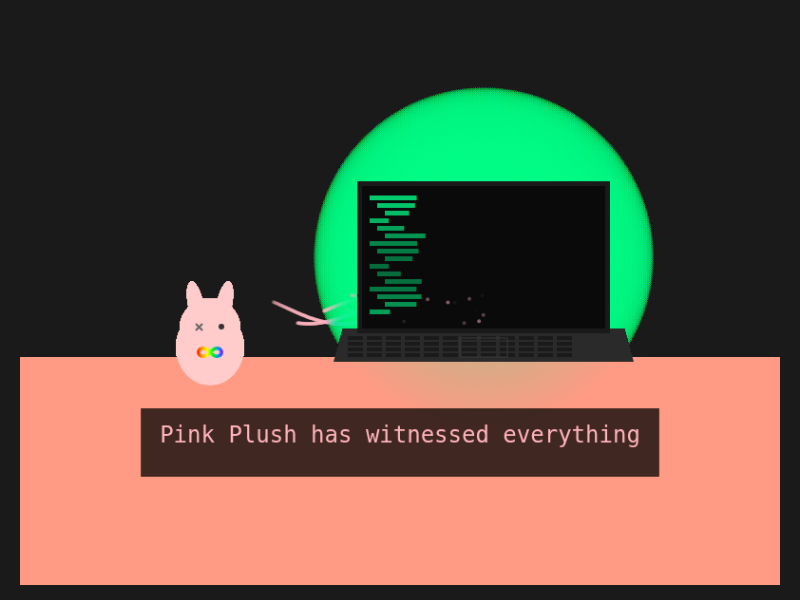
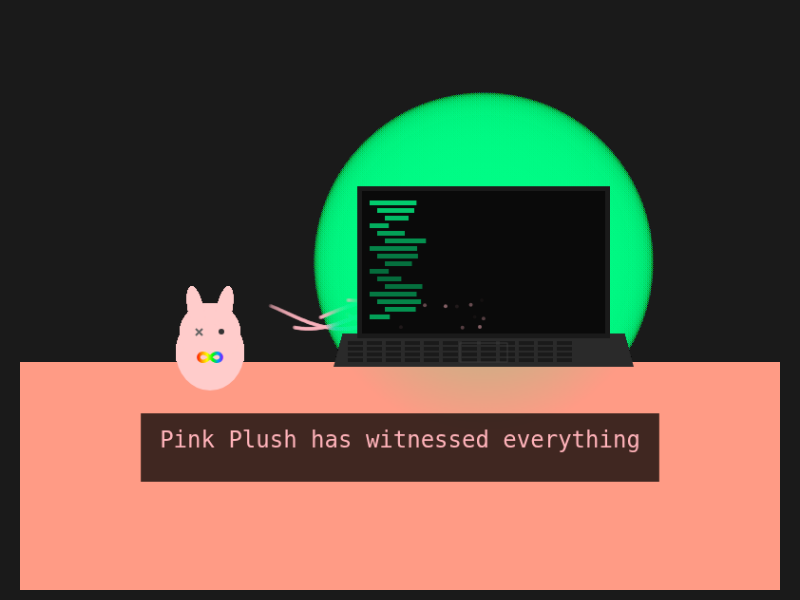
Fix #039 mobile aspect ratio - responsive canvas scaling

diff --git a/2026-03-12-pink-pal.html b/2026-03-12-pink-pal.html
@@ -15,14 +15,22 @@ body {
   font-family: 'Courier New', monospace;
   overflow: hidden;
   margin: 0;
-  padding: 0;
+  padding: 20px;
+  box-sizing: border-box;
 }
 canvas { 
   display: block; 
-  max-width: 95vw; 
-  max-height: 95vh;
-  width: 800px;
-  height: 600px;
+  width: 100%;
+  max-width: 800px;
+  height: auto;
+}
+@media (max-width: 768px) {
+  body {
+    padding: 10px;
+  }
+  canvas {
+    max-width: 100%;
+  }
 }
 </style>
 </head>
